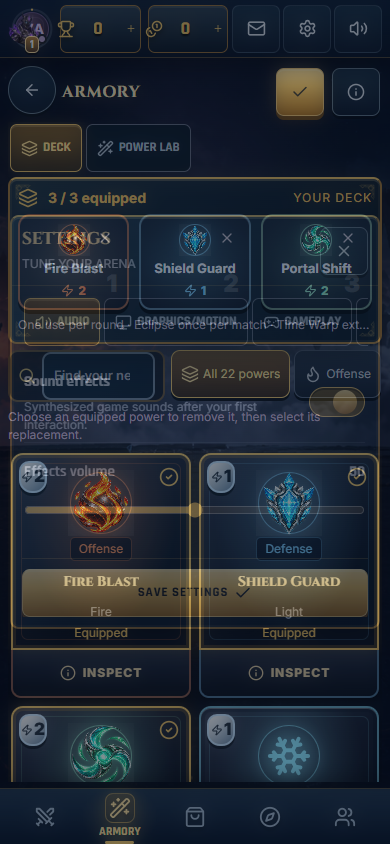
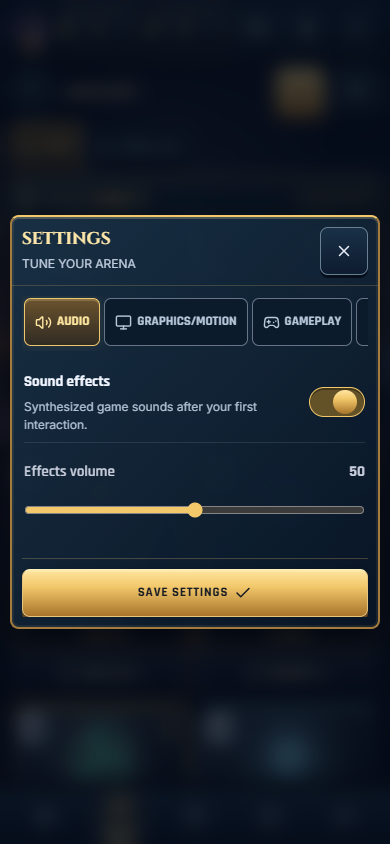
Record compact UI release checks and settled Settings preview

diff --git a/docs/GAME_UI.md b/docs/GAME_UI.md
@@ -8,6 +8,8 @@ Interactive targets retain a 48px minimum and visible text stays at least 12px. 
 
 The production build passed. All nine targeted browser flows passed, including real cosmetic purchases/equipping and all 22 powers, plus an actual 6×6 battle, emotes, drawers and surrender. A separate check covered eight core screens at six viewport sizes (48 combinations) with no body/horizontal overflow, undersized visible text or browser errors. The normal GitHub release gate reruns the full backend and browser suites before automatic deployment. Current compact captures and measurements are in [screenshots/compact-ui](screenshots/compact-ui/README.md) and [compact-ui-verification.json](compact-ui-verification.json).
 
+The compact release `677d00d` subsequently passed the full CI gate: 273 backend/unit tests with no skips, all 19 browser flows, production builds and Linux coordinator takeover. Railway deployed it successfully. A read-only public-site check verified 24 screen/viewport combinations without overflow or page errors and confirmed the expected release with an active coordinator. The Settings capture waits for both dialog and backdrop opacity to reach 1.
+
 The October 2026 presentation refresh turns the existing application into a screen-based game interface. It does not add or rebalance game mechanics. All 22 powers, three equipped slots, 3×3–6×6 rules, ranked matchmaking, rewards, cosmetic ownership and payment validation continue to use the existing engine and services. Food, health, morale, survival events and other examples in the visual references are not game mechanics.
 
 ## Screen layout and navigation
